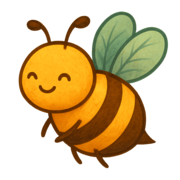
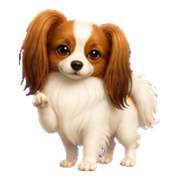
fix: keep public proof reader-facing

diff --git a/js/portfolio.js b/js/portfolio.js
@@ -17,7 +17,7 @@
         demo: '<h3>Open the working tool</h3><p>Edit tables, inspect generated SQL, query files, and join data across databases through DuckDB.</p><p class="proof-line"><a href="https://jorypestorious.com/dadbod-grip-web/">Open the walkthrough</a> · <a href="https://github.com/joryeugene/dadbod-grip.nvim">View source</a></p>',
         system: '<div class="system-path system-path--four" aria-label="Dadbod Grip system cross-section"><div class="system-node"><strong>Sources</strong><span class="system-detail system-detail--wide">PostgreSQL · MySQL · SQLite · MotherDuck · local files/HTTPS</span><span class="system-detail system-detail--compact">4 databases · files/HTTPS</span></div><span aria-hidden="true">to</span><div class="system-node"><strong>DuckDB hub</strong><span class="system-detail system-detail--wide">attach databases · scan files · cross-source joins</span><span class="system-detail system-detail--compact">attach · scan · cross-source JOIN</span></div><span aria-hidden="true">to</span><div class="system-node is-core"><strong>Dadbod Grip</strong><span class="system-detail system-detail--wide">edit grids · preview SQL · transaction script · compensating undo</span><span class="system-detail system-detail--compact">edit · preview SQL · apply · best-effort undo</span></div><span aria-hidden="true">to</span><div class="system-node"><strong>Neovim analysis</strong><span class="system-detail system-detail--wide">schemas/FKs · notebooks · profiling · Query Doctor · four AI providers</span><span class="system-detail system-detail--compact">schema · profile · notebook · AI SQL</span></div></div><p class="proof-line"><span class="system-detail system-detail--wide">One query can join attached PostgreSQL data with a local or HTTPS Parquet file. Direct-table edits use the same statement builders for preview and execution. After a CLI error, inspect database state before retrying because an earlier statement may have committed.</span><span class="system-detail system-detail--compact">JOIN PostgreSQL to Parquet. Preview SQL. Inspect state after an apply error.</span></p>',
         decisions: '<h3>Keep the data work inside Neovim.</h3><p>Dadbod handles connections, DuckDB federates sources, and the underlying database stays authoritative. The plugin adds the editing and analysis workflows between them.</p>',
-        proof: '<h3>Test the database workbench</h3><p>The current CI run passes 74 spec files and 1,761 assertions on Neovim stable and 0.10.</p><p class="proof-line"><a href="https://github.com/joryeugene/dadbod-grip.nvim/actions/runs/30663015056">Inspect the passing run</a> · <a href="/blog/dadbod-grip/">Read the build story</a></p>'
+        proof: '<h3>Test the database workbench</h3><p>The test matrix covers edits, generated SQL, query files, and regression paths on Neovim stable and 0.10.</p><p class="proof-line"><a href="/blog/dadbod-grip/">Read the build story</a> · <a href="https://github.com/joryeugene/dadbod-grip.nvim">View source</a></p>'
       }
     },
     georgie: {
@@ -39,7 +39,7 @@
         brief: '<h2>Edit, query, and analyze data without leaving Neovim.</h2><p>Dadbod Grip adds editable grids, generated SQL previews, cross-database queries, schema navigation, profiling, notebooks, and schema-aware AI to the editor.</p>',
         constraints: '<h2>Keep the database and existing connection tools authoritative.</h2><p>Dadbod manages connections. DuckDB joins databases and files. Dadbod Grip adds workflows without hiding the SQL or replacing either system.</p>',
         changes: '<h2>Make edits and federation inspectable.</h2><pre class="code-window" aria-label="Example staged SQL change"><code><span class="remove">- ALTER TABLE users ADD last_seen_at TIMESTAMP;</span>\n<span class="add">+ ALTER TABLE users ADD last_seen_at TIMESTAMPTZ;</span>\n<span class="add">+ CREATE INDEX idx_users_last_seen_at</span>\n<span class="add">+   ON users (last_seen_at DESC);</span></code></pre><div class="decision-note"><strong>Decision</strong>Show the generated mutation SQL before apply, then inspect database state after any CLI error.</div><div class="proof-strip"><span>Editable grids</span><span>DuckDB federation</span><span>SQL notebooks</span></div>',
-        tests: '<h2>Run the workbench on both supported Neovim targets.</h2><p>The linked CI run passes 74 spec files and 1,761 assertions on Neovim stable and 0.10 with DuckDB installed. PostgreSQL and MySQL integration specs remain skipped, so the run does not prove every database and CLI combination.</p><div class="proof-strip"><span>74 spec files</span><span>1,761 assertions</span><span>Two Neovim targets</span></div><p class="proof-line"><a href="https://github.com/joryeugene/dadbod-grip.nvim/actions/runs/30663015056">Inspect the passing run</a> · <a href="/blog/dadbod-grip/">Read the build story</a></p>',
+        tests: '<h2>Run the workbench on both supported Neovim targets.</h2><p>The test matrix covers editing state, generated SQL, adapters, the interface, and regression paths on Neovim stable and 0.10 with DuckDB installed. PostgreSQL and MySQL integration remain outside that matrix, so it does not prove every database and CLI combination.</p><p class="proof-line"><a href="/blog/dadbod-grip/">Read the build story</a> · <a href="https://github.com/joryeugene/dadbod-grip.nvim">View source</a></p>',
         visual: '<h2>Keep the investigation visible in one frame.</h2><p>The Softrear fixture puts a 17-table schema tree, query editor, staged grid markers, and the generated Live SQL in one Neovim view. Review checks that the selected table, pending edits, and exact statement remain legible together before apply.</p>'
       },
       wrongTurns: [['Separate desktop app', 'It breaks editor flow and adds another interface to install, learn, and maintain.'], ['Hide generated SQL', 'Users need to inspect generated query or mutation SQL before it reaches a database.']]
@@ -62,11 +62,11 @@
       layers: {
         brief: '<h2>Make the traditional Orthodox daily cycle usable without making it less exact.</h2><p>A newcomer, parishioner, reader, chanter, or priest can open one date and find the appointed offices, Scripture, saints, and fasting rule without assembling books and PDFs by hand. The calm reading surface preserves Reader and clergy roles, calendar day and service day, fixed order and variable propers, ordinary and festal forms, and OCA New Calendar precedence.</p>',
         constraints: '<h2>One missing proper can make an otherwise complete-looking office wrong.</h2><p>Matins, Vespers, the Hours, Compline, and the Midnight Office are compositions whose form changes with weekday, tone, feast rank, fast, forefeast, afterfeast, leavetaking, Lent, Holy Week, Pascha, and the next service day. The service day begins at Vespers without moving the selected calendar page. Reader services omit priest and deacon parts, every spoken line needs provenance, and incomplete seasonal forms never fall back to an ordinary substitute. The same corpus works offline on native and loads in route-sized pieces on the public web without a live application server.</p>',
-        changes: '<h2>Build a deterministic, source-audited liturgical compiler.</h2><p>A registered source manifest records authority, URL, checksum, rights, scope, and locator requirements. Deterministic importers turn the Horologion, Psalter, OCA service books, Menaion, Octoechos, Triodion, Pentecostarion, and Scripture into typed fixed services and variable proper assets. The resolver selects the office form, the service-day layer advances Vespers and Compline without changing the selected calendar route, and the composer inserts every required proper while preserving Reader or clergy roles. A full-year projection fails on an unresolved slot, unsourced line, prohibited role, or ordinary substitution.</p><p>Python also emits content-addressed day, month, Bible chapter, and search files. Expo exports the shared interface, and Cloudflare Pages serves immutable assets from the edge.</p><div class="decision-note"><strong>Decision</strong>Compile liturgical truth before deployment, fail closed on incomplete forms, and keep runtime delivery read-only.</div>',
-        tests: '<h2>Prove what a person can actually open and pray, for every exposed date.</h2><p>The release gate resolves every exposed office and role across all 4,017 dates from 2025 through 2035. Independent gold dates cover ordinary days, all eight tones, feasts, fasts, forefeasts, afterfeasts, leavetakings, Lent, Holy Week, Pascha, Royal Hours, and evening service-day changes. Source and schema gates reject unresolved propers, unknown sources, missing locators, clergy parts in Reader services, and unsupported substitutions.</p><p>Immutable release <code>60a8c03c</code> passed 567 Jest tests across 53 suites, every Python, source, build, and export gate, and a live browser matrix of 179 passing journeys with three intentional skips and no failures. The stale-browser journey returns a v1 manifest, triggers one deduplicated cache-bypassing v2 fetch, and preserves the reader\'s profile and state. The unchanged matrix passed against the immutable web deployment at desktop and mobile widths and again on prayorthodox.com.</p><div class="proof-strip"><span>4,017 dates</span><span>567 tests</span><span>179 live journeys</span></div>',
-        visual: '<h2>Judge the result as a prayer book, not a passing DOM.</h2><p>Phone uses one focused reading column; desktop opens into a diptych with the church day on the left and the selected office on the right. Reviews at the target phone, tablet, laptop, and desktop widths check date hierarchy, reading measure, 44-pixel controls, collapsed provenance, and horizontal overflow. Spoken prayer uses the reading hand, rubrics use distinct red italics, roles remain explicit, and explanatory text never looks like words to recite. Sources must not crowd Begin Prayer, long feast names must not dominate the civil date, and Vespers must show tomorrow\'s service day without moving today\'s calendar page.</p><p class="proof-line"><a href="https://b8eb1eb8.theosis.pages.dev/">Inspect the immutable deployment</a> · <a href="https://prayorthodox.com/">Open the live product</a></p>'
+        changes: '<h2>Compile the same Church sources into the same office.</h2><p>A source manifest records authority, URL, checksum, rights, scope, and locator requirements. Importers turn the Horologion, Psalter, OCA service books, Menaion, Octoechos, Triodion, Pentecostarion, and Scripture into fixed services and variable propers. The resolver selects the office form, the service-day layer advances Vespers and Compline without changing the selected calendar route, and the composer inserts every required proper while preserving Reader or clergy roles. Publication stops on an unresolved slot, unsourced line, prohibited role, or ordinary substitution.</p><p>Python emits files for each day, month, Bible chapter, and search route. Expo exports the shared interface, and the web reader loads those files without a runtime API.</p><div class="decision-note"><strong>Decision</strong>Publish only offices whose required sections resolve from authorized sources, and keep runtime delivery read-only.</div>',
+        tests: '<h2>Keep incomplete offices out of the public schedule.</h2><p>Before publication, every exposed office and role is resolved across the supported calendar range. Known calendar dates cover ordinary days, all eight tones, feasts, fasts, forefeasts, afterfeasts, leavetakings, Lent, Holy Week, Pascha, Royal Hours, and the service-day change at Vespers. The checks reject unresolved propers, unknown sources, missing locators, clergy parts in Reader services, and ordinary substitutions where another form is appointed. Browser checks open those prayer journeys on phone and desktop.</p>',
+        visual: '<h2>Judge the result as a prayer book, not a passing DOM.</h2><p>Phone uses one focused reading column; desktop opens into a diptych with the church day on the left and the selected office on the right. Reviews at the target phone, tablet, laptop, and desktop widths check date hierarchy, reading measure, 44-pixel controls, collapsed provenance, and horizontal overflow. Spoken prayer uses the reading hand, rubrics use distinct red italics, roles remain explicit, and explanatory text never looks like words to recite. Sources must not crowd Begin Prayer, long feast names must not dominate the civil date, and Vespers must show tomorrow\'s service day without moving today\'s calendar page.</p><p class="proof-line"><a href="https://prayorthodox.com/">Open the live product</a></p>'
       },
-      wrongTurns: [['Generic office shells', 'A complete-looking ordinary form can be false on a feast or seasonal day. Unsupported appointments stay hidden until every required section resolves.'], ['Send readers to source PDFs', 'A citation proves provenance; it is not the prayer surface. Authorized services remain in the app with a source and locator attached to each line.'], ['Resolve liturgy in a runtime API', 'The calendar range and source corpus are deterministic at release time. Building them before deployment makes correctness testable and removes a server or database availability boundary while someone is praying.']]
+      wrongTurns: [['Generic office shells', 'A complete-looking ordinary form can be false on a feast or seasonal day. Unsupported appointments stay hidden until every required section resolves.'], ['Send readers to source PDFs', 'A citation proves provenance; it is not the prayer surface. Authorized services remain in the app with a source and locator attached to each line.'], ['Resolve liturgy in a runtime API', 'The calendar range and source corpus are known before publication. Building them then lets the checks inspect the same files readers receive and removes a server or database availability boundary while someone is praying.']]
     },
     workhelix: {
       title: 'How Nucleus presents AI-opportunity estimates to enterprise leaders',

diff --git a/process/index.html b/process/index.html
@@ -14,6 +14,7 @@
   <meta name="twitter:image" content="https://jorypestorious.com/jpg/jory-georgie-social.png">
   <title>Process | Jory Pestorious</title>
   <link rel="icon" type="image/png" href="/favicon.png">
+  <link rel="apple-touch-icon" href="/apple-touch-icon.png">
   <link rel="stylesheet" href="/css/portfolio.css?v=foundation-plus-4">
 </head>
 <body class="portfolio-page page-process">
@@ -77,9 +78,9 @@
             <div class="process-case-copy">
               <p class="eyebrow">Live prayer book</p>
               <h2>Open the Orthodox daily cycle in one trustworthy prayer book.</h2>
-              <p>Pray Orthodox brings Church offices, appointed propers, Scripture, saints, fasting guidance, and Bible reading into one quiet surface. A source-audited appointment engine composes each date from fixed services and variable liturgical corpora. Every rendered prayer retains its source and locator. If a required form or proper is incomplete, it stays out of the public schedule instead of being replaced by a generic prayer.</p>
-              <p>Python bakes the source-pinned calendar and Bible corpora into content-addressed, route-sized files. Expo builds the shared interface for web and native. The public release is the Cloudflare Pages web reader, which needs no runtime API or database startup.</p>
-              <div class="case-destinations"><a href="https://prayorthodox.com/" data-jelly>Open Pray Orthodox</a><a href="https://b8eb1eb8.theosis.pages.dev/" data-jelly>Inspect the immutable deployment</a></div>
+              <p>Pray Orthodox brings Church offices, appointed propers, Scripture, saints, fasting guidance, and Bible reading into one quiet surface. A source-pinned appointment engine composes each date from fixed services and variable liturgical corpora. Every rendered prayer retains its source and locator. If a required form or proper is incomplete, it stays out of the public schedule instead of being replaced by a generic prayer.</p>
+              <p>Python bakes the calendar and Bible data into files for each day, month, chapter, and search route. Expo builds the shared interface for web and native. The web reader loads those files without waiting for a runtime API or database startup.</p>
+              <div class="case-destinations"><a href="https://prayorthodox.com/" data-jelly>Open Pray Orthodox</a></div>
             </div>
             <figure class="process-case-shot">
               <img src="/jpg/process/pray-orthodox-reader.png" alt="Pray Orthodox showing the selected church day beside the Third Hour Reader office with its sources collapsed." width="1440" height="900" loading="lazy" decoding="async">
@@ -140,9 +141,8 @@
 
             <div id="layer-tests" class="layer-content" role="tabpanel" data-layer-content hidden>
               <h2>Run the workbench on both supported Neovim targets.</h2>
-              <p>The linked CI run passes 74 spec files and 1,761 assertions on Neovim stable and 0.10 with DuckDB installed. PostgreSQL and MySQL integration specs remain skipped, so the run does not prove every database and CLI combination.</p>
-              <div class="proof-strip"><span>74 spec files</span><span>1,761 assertions</span><span>Two Neovim targets</span></div>
-              <p class="proof-line"><a href="https://github.com/joryeugene/dadbod-grip.nvim/actions/runs/30663015056">Inspect the passing run</a> · <a href="/blog/dadbod-grip/">Read the build story</a></p>
+              <p>The test matrix covers editing state, generated SQL, adapters, the interface, and regression paths on Neovim stable and 0.10 with DuckDB installed. PostgreSQL and MySQL integration remain outside that matrix, so it does not prove every database and CLI combination.</p>
+              <p class="proof-line"><a href="/blog/dadbod-grip/">Read the build story</a> · <a href="https://github.com/joryeugene/dadbod-grip.nvim">View source</a></p>
             </div>
 
             <div id="layer-visual" class="layer-content" role="tabpanel" data-layer-content hidden>

diff --git a/tests/portfolio.spec.js b/tests/portfolio.spec.js
@@ -61,7 +61,7 @@ test.describe('portfolio shell', () => {
 
     const cases = [
       ['Inspect Phalene-Vim', 'Phalene-Vim', /motions, macros, search, undo/i],
-      ['Inspect dadbod-grip.nvim', 'dadbod-grip.nvim', /74 spec files.*1,761 assertions/i],
+      ['Inspect dadbod-grip.nvim', 'dadbod-grip.nvim', /test matrix covers edits.*generated SQL.*query files/i],
       ['Inspect Georgie', 'Georgie', /raised paw/i]
     ];
 
@@ -298,9 +298,10 @@ test.describe('portfolio pages', () => {
     await expect(page.getByText(/Four shipped systems/)).toHaveCount(0);
     await expect(page.getByText(/15\+?.*ECharts|more than 15.*ECharts/i)).toHaveCount(0);
     await expect(page.getByText(/built (its )?interactive analytics and assessment workflows/i)).toHaveCount(0);
+    await expect(page.locator('body')).not.toContainText(/immutable deployment|content-addressed|source-audited|Jest tests across|passing journeys|intentional skips|cache-bypassing|linked CI run|\d[\d,]* assertions/i);
     await expect(page.getByRole('link', { name: 'Process', exact: true })).toHaveAttribute('aria-current', 'page');
     await page.getByRole('tab', { name: 'Tests' }).click();
-    await expect(page.getByText('1,761 assertions', { exact: true })).toBeVisible();
+    await expect(page.getByText(/test matrix covers editing state.*generated SQL.*adapters/i)).toBeVisible();
     await expect(page.getByText('Separate desktop app')).toBeVisible();
     await expect(page.locator('.wrong-turn').first()).toHaveCSS('border-left-style', 'solid');
 
@@ -327,17 +328,15 @@ test.describe('portfolio pages', () => {
     await page.getByRole('tab', { name: 'Pray Orthodox' }).click();
     const theosisPanel = page.locator('#case-theosis');
     await expect(page.getByText(/Open the Orthodox daily cycle in one trustworthy prayer book/i)).toBeVisible();
-    await expect(theosisPanel).toContainText('source-audited appointment engine');
+    await expect(theosisPanel).toContainText('source-pinned appointment engine');
     await expect(theosisPanel).toContainText('Every rendered prayer retains its source and locator');
     await page.getByRole('tablist', { name: 'Project evidence layers' }).getByRole('tab', { name: /Tests/ }).click();
-    await expect(page.getByText(/every exposed office and role across all 4,017 dates/i)).toBeVisible();
+    await expect(page.getByText(/every exposed office and role is resolved across the supported calendar range/i)).toBeVisible();
     await expect(page.getByText(/reject unresolved propers, unknown sources, missing locators/i)).toBeVisible();
-    await expect(page.getByText(/567 Jest tests across 53 suites/i)).toBeVisible();
-    await expect(page.getByText(/179 passing journeys/i)).toBeVisible();
-    await expect(page.getByText(/one deduplicated cache-bypassing v2 fetch/i)).toBeVisible();
+    await expect(page.getByText(/Browser checks open those prayer journeys on phone and desktop/i)).toBeVisible();
     await page.getByRole('tablist', { name: 'Project evidence layers' }).getByRole('tab', { name: /Visual QA/ }).click();
     await expect(page.getByText(/Vespers must show tomorrow's service day without moving today's calendar page/i)).toBeVisible();
-    await expect(page.getByRole('link', { name: 'Inspect the immutable deployment', exact: true })).toHaveAttribute('href', 'https://b8eb1eb8.theosis.pages.dev/');
+    await expect(page.getByRole('link', { name: 'Open the live product', exact: true })).toHaveAttribute('href', 'https://prayorthodox.com/');
     await expect(page.locator('a[href="https://github.com/joryeugene/theosis"]')).toHaveCount(0);
     await expect(page).toHaveURL(/#theosis$/);
     await expect(page.getByRole('tab', { name: 'Pray Orthodox' })).toHaveAttribute('href', '#theosis');

diff --git a/index.html b/index.html
@@ -135,8 +135,8 @@
         </div>
         <div id="depth-proof" class="depth-panel" role="tabpanel" data-depth-panel aria-labelledby="depth-proof-tab" hidden>
           <h3>Test the database workbench</h3>
-          <p>The linked CI run passes 74 spec files and 1,761 assertions on Neovim stable and 0.10.</p>
-          <p class="proof-line"><a href="https://github.com/joryeugene/dadbod-grip.nvim/actions/runs/30663015056">Inspect the passing run</a> · <a href="/blog/dadbod-grip/">Read the build story</a></p>
+          <p>The test matrix covers edits, generated SQL, query files, and regression paths on Neovim stable and 0.10.</p>
+          <p class="proof-line"><a href="/blog/dadbod-grip/">Read the build story</a> · <a href="https://github.com/joryeugene/dadbod-grip.nvim">View source</a></p>
         </div>
       </section>
 

diff --git a/blog/ai-dev-tooling-presentation/index.html b/blog/ai-dev-tooling-presentation/index.html
@@ -28,6 +28,8 @@
     content="A 2025 presentation on Cursor, Claude Code, Cline, MCP, git worktrees, terminal tools, verification, and parallel agent workflows.">
   <meta property="twitter:image" content="https://jorypestorious.com/jpg/jory-georgie-social.png">
   <title>AI-Amplified Development: Tools and Workflows for Modern Engineers</title>
+  <link rel="icon" type="image/png" href="/favicon.png">
+  <link rel="apple-touch-icon" href="/apple-touch-icon.png">
   <link rel="stylesheet" href="https://cdn.jsdelivr.net/npm/reveal.js@4.3.1/dist/reset.css">
   <link rel="stylesheet" href="https://cdn.jsdelivr.net/npm/reveal.js@4.3.1/dist/reveal.css">
   <link rel="stylesheet" href="https://cdn.jsdelivr.net/npm/reveal.js@4.3.1/dist/theme/white.css">

diff --git a/blog/index.html b/blog/index.html
@@ -18,6 +18,7 @@
   <meta name="twitter:image:alt" content="Jory Pestorious with Georgie, a lounging pixel-art Phalene">
   <title>Writing | Jory Pestorious</title>
   <link rel="icon" type="image/png" href="/favicon.png">
+  <link rel="apple-touch-icon" href="/apple-touch-icon.png">
   <link rel="alternate" type="application/atom+xml" title="Engineering Notes" href="/blog/feed.xml">
   <link rel="stylesheet" href="/css/portfolio.css?v=foundation-plus-3">
 </head>

diff --git a/contact/index.html b/contact/index.html
@@ -14,6 +14,7 @@
   <meta name="twitter:image" content="https://jorypestorious.com/jpg/jory-georgie-social.png">
   <title>Contact | Jory Pestorious</title>
   <link rel="icon" type="image/png" href="/favicon.png">
+  <link rel="apple-touch-icon" href="/apple-touch-icon.png">
   <link rel="stylesheet" href="/css/portfolio.css?v=foundation-plus-3">
 </head>
 <body class="portfolio-page page-contact">

diff --git a/vim/index.html b/vim/index.html
@@ -13,6 +13,7 @@
   <meta name="twitter:image" content="https://jorypestorious.com/jpg/jory-georgie-social.png">
   <title>Phalene Vim - jorypestorious.com</title>
   <link rel="icon" type="image/png" href="/favicon.png">
+  <link rel="apple-touch-icon" href="/apple-touch-icon.png">
   <style>
     *, *::before, *::after { box-sizing: border-box; margin: 0; padding: 0; }
 

diff --git a/404.html b/404.html
@@ -6,6 +6,8 @@
   <meta name="viewport" content="width=device-width, initial-scale=1.0">
   <meta http-equiv="X-UA-Compatible" content="ie=edge">
   <title>Redirecting...</title>
+  <link rel="icon" type="image/png" href="/favicon.png">
+  <link rel="apple-touch-icon" href="/apple-touch-icon.png">
 </head>
 
 <body>

diff --git a/blog/friction-economy/friction-economy-vim-philosophy.md b/blog/friction-economy/friction-economy-vim-philosophy.md
@@ -6,7 +6,7 @@
 
 In a 1999 interview quoted by *The Register*, Bill Joy said he wrote vi over several months while using a home terminal and a 300-baud modem. The slow connection made every screen update and round trip visible. Vi answered that constraint with a compact command language for moving through and changing text. For current development work, ask which repeated steps a command can remove without removing a decision the work still needs.
 
-Friction is not every pause. A code review, a permission decision, and confirmation before a destructive command carry information and responsibility. The friction worth removing is mechanical work that begins after the decision is already made: rebuilding a directory path, reconstructing search flags, finding the same prompt, or translating a schedule into cron syntax.
+A code review, a permission decision, and confirmation before a destructive command carry information and responsibility. The friction worth removing is mechanical work that begins after the decision is already made: rebuilding a directory path, reconstructing search flags, finding the same prompt, or translating a schedule into cron syntax.
 
 ![Developer at a keyboard with Vim, React, FastAPI, and a permission dialog around the workstation](def-foo-efficiency-spectrum-optimized.png)
 *A developer works at a keyboard while editing, framework, and permission tools surround the workstation.*
@@ -66,7 +66,7 @@ Ripgrep's defaults are useful in a repository, but they are not identical to `gr
 
 The ripgrep project publishes several benchmarks and warns that one benchmark is not enough. Search the same corpus with the same pattern and output requirements before making a speed claim.
 
-For syntax-aware searches, [ast-grep 0.39.6](https://github.com/ast-grep/ast-grep/releases/tag/0.39.6) matches abstract syntax tree patterns instead of plain text. Structural search answers a different question from grep. Use it when the question depends on code structure.
+For syntax-aware searches, [ast-grep 0.39.6](https://github.com/ast-grep/ast-grep/releases/tag/0.39.6) matches abstract syntax tree patterns instead of plain text. Use it when the question depends on code structure.
 
 ## Reviewing Git state
 
@@ -87,7 +87,7 @@ c      commit
 P      push
 ```
 
-The useful comparison is not command count alone. Compare whether the candidate makes the changed lines and destination branch easier to verify. If it saves typing while making the patch less visible, it has moved the cost into review risk.
+Compare whether the candidate makes the changed lines and destination branch easier to verify. If it saves typing while making the patch less visible, it has moved the cost into review risk.
 
 ## Permission prompts carry decisions
 
@@ -130,7 +130,7 @@ Calmhive's bundled allowlist includes all 15 core tools and roughly 70 MCP tools
 
 ## Run one comparison
 
-I have not run the tools above as a controlled comparison. Before treating one as an improvement, run the same task against the same repository and input with pinned tool versions.
+I did not compare the listed tools against one another. Before treating one as an improvement, run the same task against the same repository and input with pinned tool versions.
 
 1. Write the acceptable result before changing the workflow.
 2. Record the current path from lookup through result checking, including any approval or recovery step.
@@ -138,7 +138,7 @@ I have not run the tools above as a controlled comparison. Before treating one a
 4. Compare the result and elapsed time. Include the time spent on corrections and permission review.
 5. Keep the change only if it removes mechanical work without weakening the result or its decision boundaries.
 
-Time alone cannot settle the comparison. A faster search may inspect a different file set. A prompt shortcut may retrieve stale instructions. A background agent may finish after making edits that cost more to review than the foreground work it replaced.
+A faster search may inspect a different file set. A prompt shortcut may retrieve stale instructions. A background agent may finish after making edits that cost more to review than the foreground work it replaced.
 
 Vi remains useful here because its command language makes the removed operation visible. Apply that test to the rest of the workflow. If a shortcut hides a permission decision, changes the result set, or adds more review than it removes, the shortcut has moved friction into review or risk.
 

diff --git a/blog/endgame-keyboard/endgame-keyboard.md b/blog/endgame-keyboard/endgame-keyboard.md
@@ -44,7 +44,7 @@ The keymap lives on the Piantor through Vial, so the layout follows the board to
 
 Modifiers occupy the outer pinky columns: Ctrl at top left, Cmd at home left, Alt at top right, and Shift on both bottom keys. Six thumb keys handle five layers plus Backspace, Space, Tab, Escape, and mouse click. The right outer thumb taps Escape and holds Hyper, which is Ctrl+Shift+Alt+Cmd. The right inner thumb taps left-click and holds a mouse layer that moves the pointer with HJKL.
 
-Home-row mods failed in this setup. With 20g switches, resting pressure and normal rollover produced accidental modifiers often enough to interrupt typing. Dedicated modifier keys removed the timing decision from the firmware: Ctrl is always Ctrl.
+With 20g switches, resting pressure and normal rollover produced accidental modifiers often enough to interrupt typing. Dedicated modifier keys removed the timing decision from the firmware: Ctrl is always Ctrl.
 
 The inner-column keys at the T/G/B and Y/H/N positions stay blank on layers where I do not need them. Insert once lived on the G position of the navigation layer and fired constantly. Removing that binding fixed the mistake. The number and symbol layers still use the inner columns where I intend to reach them.
 
@@ -78,9 +78,9 @@ Start with software before buying hardware. Karabiner can put arrows on Cmd+HJKL
 
 [Wispr Flow](https://wisprflow.ai/) is what I use for dictation. In my own messages and documents, holding a hotkey, speaking, and releasing is faster than typing the same prose. I still review the output, especially around code terms and commands.
 
-[Open Wispr](https://github.com/human37/open-wispr/tree/ce567f4f548e0fa8f501e7b7c435bbe9daa5c60a) provides a local alternative for Apple Silicon Macs. Its project documentation describes a Globe-key hold-to-speak interface, whisper.cpp transcription with Metal acceleration, local processing, and no account requirement. I have not run a controlled accuracy comparison between it and paid dictation products.
+[Open Wispr](https://github.com/human37/open-wispr/tree/ce567f4f548e0fa8f501e7b7c435bbe9daa5c60a) provides a local alternative for Apple Silicon Macs. Its project documentation describes a Globe-key hold-to-speak interface, whisper.cpp transcription with Metal acceleration, local processing, and no account requirement. I have no accuracy measurements comparing it with paid dictation products.
 
-Voice does not replace my keyboard for programming. It handles Slack messages, pull request descriptions, commit messages, documentation, and email, while the keyboard remains better for code and precise editing. I wrote more about voice as an input layer in [Friction Economy: Unconscious Productivity Drains](/blog/friction-economy/).
+Voice handles Slack messages, pull request descriptions, commit messages, documentation, and email, while the keyboard remains better for code and precise editing. I wrote more about voice as an input layer in [Friction Economy: Unconscious Productivity Drains](/blog/friction-economy/).
 
 ## Or Use What You Have
 

diff --git a/blog/ai-engineer-spec/2025-ai-engineers-world-fair-takeaways-spec.md b/blog/ai-engineer-spec/2025-ai-engineers-world-fair-takeaways-spec.md
@@ -21,7 +21,7 @@ Together, the three labels form a five-step loop. The loop stops when the produc
 4. Record each mismatch as a bounded task.
 5. Recheck the product after the task lands.
 
-The comparison does not prove that a specification improves productivity. I have not run a controlled before-and-after study on this framework. This method gives the team a reviewable basis for deciding whether generated output is correct.
+The comparison does not prove that a specification improves productivity. No measured before-and-after result exists for this framework. This method gives the team a reviewable basis for deciding whether generated output is correct.
 
 ## Put evidence beside the decision
 
@@ -35,7 +35,7 @@ Git worktrees let separate processes work on separate branches without sharing a
 
 Parallel work is easiest to review when the spec divides it along clear interfaces. One branch can change the implementation, another can add the acceptance test, and a third can update the documentation, provided one person owns integration and checks the combined behavior. When tasks overlap in the same files or assumptions, running more agents creates merge and review work instead of removing it.
 
-The quality checks also have different jobs. Static analysis catches classes of syntax and type errors. Tests check stated examples and invariants. A comparison against the spec checks whether the requested behavior survived implementation.
+Static analysis catches classes of syntax and type errors. Tests check stated examples and invariants. A comparison against the spec checks whether the requested behavior survived implementation.
 
 Production monitoring and user reports reveal conditions the earlier checks missed. An LLM can help locate a mismatch, but its review is another input, not proof that the product is correct. My conference note, `Bug prevention > Bug squashing`, means comparing the implementation with the spec before users have to report the difference.
 
